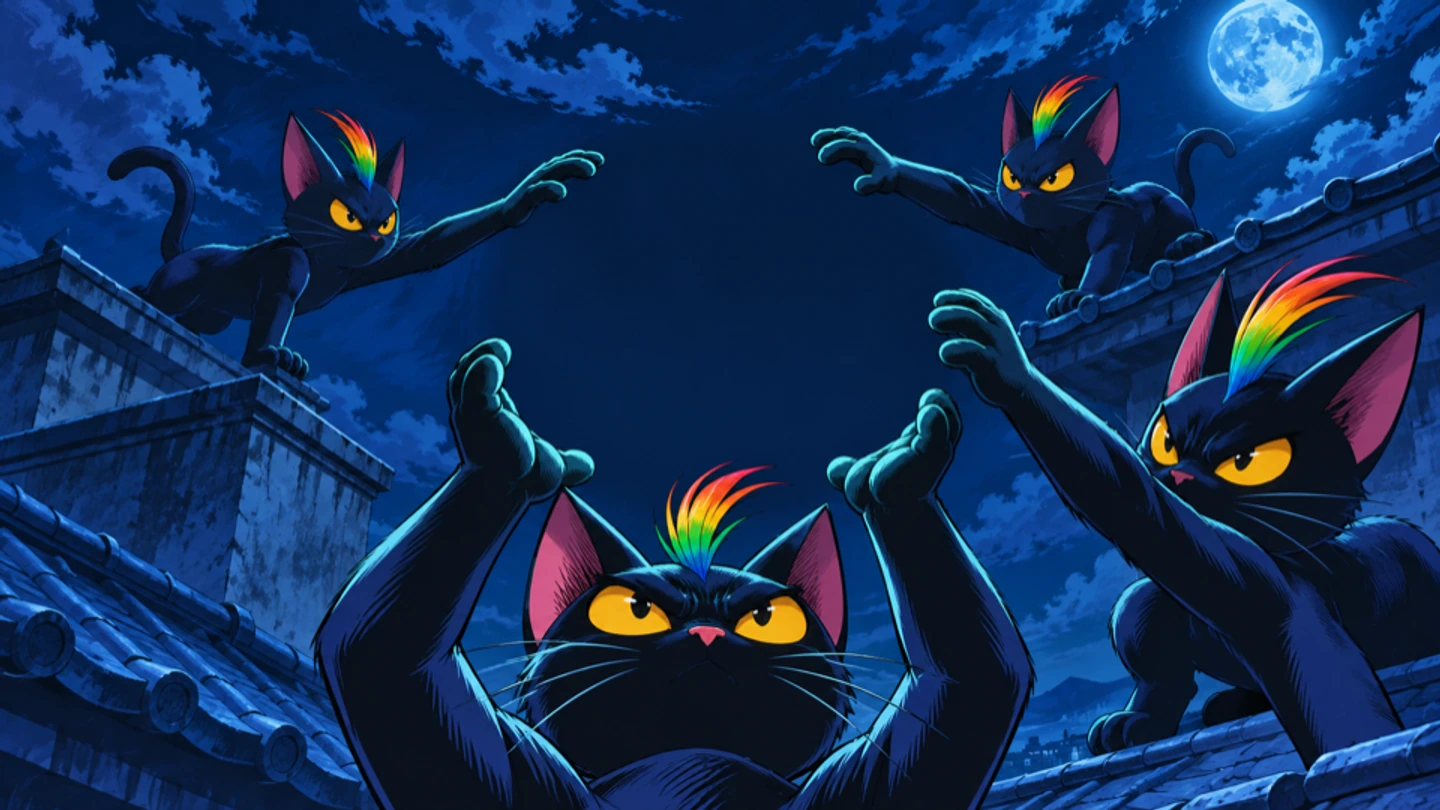
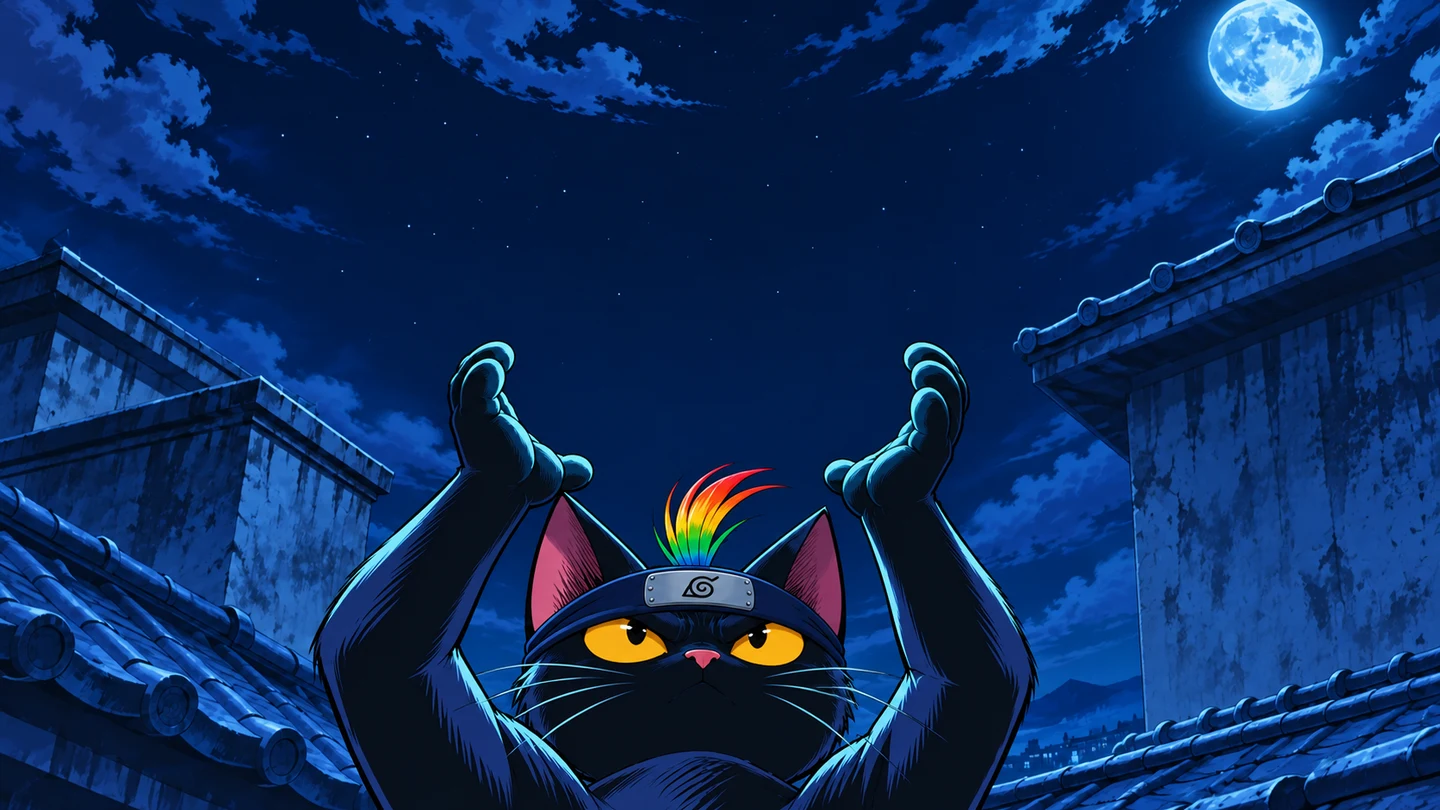
Redesign the anime Rasengan and animate the shadow clones

diff --git a/src/components/animeRasengan.ts b/src/components/animeRasengan.ts
@@ -1,0 +1,162 @@
+type Context = CanvasRenderingContext2D;
+
+const turn = Math.PI * 2;
+const unit = (value: number) => Math.max(0, Math.min(1, value));
+const smooth = (value: number) => {
+  const t = unit(value);
+  return t * t * (3 - 2 * t);
+};
+
+const clones = [
+  { at: .06, x: 26, y: 32, size: 270, smokeX: 155, smokeY: 178, handX: 268, handY: 121 },
+  { at: .22, x: 615, y: -2, size: 235, smokeX: 742, smokeY: 126, handX: 632, handY: 74 },
+  { at: .38, x: 642, y: 184, size: 367, smokeX: 828, smokeY: 300, handX: 662, handY: 202 },
+];
+const atlasColumns = clones.length + 1;
+
+function drawSmoke(ctx: Context, x: number, y: number, age: number, size: number) {
+  if (age < 0 || age >= .64) return;
+  const spread = 1 - (1 - unit(age / .64)) ** 2;
+  ctx.save();
+  ctx.globalAlpha = smooth(age / .055) * (1 - smooth((age - .12) / .52));
+  ctx.translate(x, y);
+
+  // Outlined smoke cels open from the center and break into drifting puffs.
+  for (let i = 0; i < 12; i++) {
+    const angle = i * 2.399;
+    const distance = size * (.20 + .075 * i) * (.28 + spread);
+    const radius = size * (.5 + .045 * (i % 5)) * (1 - .65 * spread);
+    const px = Math.cos(angle) * distance;
+    const py = Math.sin(angle) * distance * .58 - spread * size * .45;
+    ctx.fillStyle = i % 4 === 0 ? '#a5bada' : i % 3 === 0 ? '#c6d5eb' : '#edf4fc';
+    ctx.strokeStyle = '#7391b5';
+    ctx.lineWidth = 1.3;
+    ctx.beginPath();
+    ctx.ellipse(px, py, radius, radius * (.72 + .08 * (i % 4)), angle * .5, 0, turn);
+    ctx.fill();
+    if (i % 3 === 0) ctx.stroke();
+  }
+  ctx.restore();
+}
+
+function drawConjuring(ctx: Context, local: number, sprite?: HTMLImageElement) {
+  for (const [index, clone] of clones.entries()) {
+    const age = local - clone.at;
+    if (age >= .075 && sprite?.complete && sprite.naturalWidth) {
+      const settle = 1 - Math.exp(-(age - .075) * 21);
+      const { x, y, size } = clone;
+      ctx.filter = 'saturate(1.07) contrast(1.04)';
+      const cell = sprite.naturalWidth / atlasColumns;
+      ctx.drawImage(sprite, index * cell, 0, cell, sprite.naturalHeight, x, y + 11 * (1 - settle), size, size);
+      ctx.filter = 'none';
+    }
+    drawSmoke(ctx, clone.smokeX, clone.smokeY, age, 73 + index * 8);
+  }
+}
+
+function drawChakraSphere(ctx: Context, x: number, y: number, radius: number, local: number, atlas?: HTMLImageElement) {
+  if (!atlas?.complete || !atlas.naturalWidth) return;
+  ctx.save();
+  ctx.translate(x, y);
+  ctx.scale(radius, radius);
+  ctx.rotate(-local * 4.6 - local * local * 1.1);
+
+  const cell = atlas.naturalWidth / atlasColumns;
+  ctx.drawImage(atlas, clones.length * cell, 0, cell, atlas.naturalHeight, -1.08, -1.08, 2.16, 2.16);
+  ctx.rotate(local * 9.3);
+  ctx.shadowColor = '#2eafff';
+  ctx.shadowBlur = 4;
+
+  // Tapered ribbons roll around different axes. The flat side of each ellipse
+  // turns into its bright face, giving the shell a visible front and back.
+  for (let i = 0; i < 5; i++) {
+    const phase = local * (i % 2 ? -10.5 : 8.8) + i * 1.73;
+    const depth = Math.sin(phase * .61 + i);
+    const tilt = i * 2.399 + Math.sin(phase * .36) * .42;
+    const span = .60 + i * .13;
+    const flatten = .15 + Math.abs(depth) * .78;
+    const width = (.027 + (i % 4) * .015) * (.72 + Math.abs(depth) * .38);
+    ctx.save();
+    ctx.rotate(tilt);
+    ctx.translate(Math.sin(phase * .75) * .12, Math.cos(i * 2.1) * .11);
+    ctx.fillStyle = ['#efffff', '#c4faff', '#76ecff'][i % 3];
+    ctx.globalAlpha *= Math.max(0, .30 + depth * .46);
+    ctx.beginPath();
+    for (let point = 0; point <= 28; point++) {
+      const angle = phase + point / 28 * 4.08;
+      ctx.lineTo(Math.cos(angle) * span, Math.sin(angle) * span * flatten);
+    }
+    for (let point = 28; point >= 0; point--) {
+      const along = point / 28;
+      const angle = phase + along * 4.08;
+      const inner = span - Math.sin(along * Math.PI) * width;
+      ctx.lineTo(Math.cos(angle) * inner, Math.sin(angle) * inner * flatten);
+    }
+    ctx.closePath();
+    ctx.fill();
+    ctx.restore();
+  }
+  ctx.restore();
+}
+
+export function drawRasengan(ctx: Context, local: number, band: number, sprite?: HTMLImageElement) {
+  ctx.save();
+  drawConjuring(ctx, local, sprite);
+  const chargeTime = local - .30;
+  if (chargeTime <= 0) {
+    ctx.restore();
+    return;
+  }
+
+  const gather = smooth(chargeTime / 1.37);
+  const release = smooth((local - 1.90) / .34);
+  const radius = 8 + 87 * gather + 32 * release ** 2;
+  const x = 480;
+  const y = 229;
+
+  ctx.globalCompositeOperation = 'screen';
+  const glow = ctx.createRadialGradient(x, y, radius * .48, x, y, radius * 2.36);
+  glow.addColorStop(0, '#77fbff');
+  glow.addColorStop(.36, '#1bbfff71');
+  glow.addColorStop(1, '#0869f800');
+  ctx.globalAlpha = (.51 + .23 * band) * smooth(chargeTime / .35);
+  ctx.fillStyle = glow;
+  ctx.fillRect(x - radius * 2.4, y - radius * 2.4, radius * 4.8, radius * 4.8);
+
+  for (const [i, clone] of clones.entries()) {
+    const feed = smooth((local - clone.at - .28) / .28) * (1 - release);
+    if (!feed) continue;
+    const side = i === 0 ? -1 : 1;
+    const stream = ctx.createLinearGradient(clone.handX, clone.handY, x, y);
+    stream.addColorStop(0, '#87eeff12');
+    stream.addColorStop(.57, '#38cfff');
+    stream.addColorStop(1, '#f0ffff');
+    ctx.strokeStyle = stream;
+    ctx.globalAlpha = feed * .74;
+    ctx.lineWidth = (1.6 + gather * 2.7) * feed;
+    const drift = Math.sin(local * 25 + i * 2) * 7;
+    ctx.beginPath();
+    ctx.moveTo(clone.handX, clone.handY);
+    ctx.bezierCurveTo(clone.handX + side * -45, clone.handY + drift,
+      x + side * radius * 1.5, y + (i - 1) * radius, x, y);
+    ctx.stroke();
+  }
+
+  ctx.globalCompositeOperation = 'source-over';
+  ctx.globalAlpha = smooth(chargeTime / .19);
+  drawChakraSphere(ctx, x, y, radius, local, sprite);
+
+  ctx.lineCap = 'round';
+  for (let i = 0; i < 16; i++) {
+    const phase = (local * (2.2 + i % 3 * .24) + i * .618) % 1;
+    const angle = i * 2.399 + phase * .88;
+    const reach = radius * (1.02 + phase * (.31 + release * .65));
+    ctx.strokeStyle = i % 3 === 0 ? '#f3ffff' : '#60ddff';
+    ctx.globalAlpha = Math.sin(phase * Math.PI) * (.24 + gather * .7);
+    ctx.lineWidth = (.8 + i % 4 * .5) * (1 + release);
+    ctx.beginPath();
+    ctx.arc(x, y, reach, angle, angle + .025 + (1 - phase) * .14);
+    ctx.stroke();
+  }
+  ctx.restore();
+}

diff --git a/src/components/animeCutActions.ts b/src/components/animeCutActions.ts
@@ -1,3 +1,5 @@
+import { drawRasengan } from './animeRasengan';
+
 type Context = CanvasRenderingContext2D;
 type Camera = { x: number; y: number; scale: number };
 type Point = readonly [number, number];
@@ -6,7 +8,7 @@ export const katanaSprite = 'actions/moonlit-katana.webp';
 
 export const cutActionPlates = {
   'dawn-eye': 'nika-shadow.webp',
-  rasengan: 'rasengan-current.webp',
+  rasengan: 'rasengan-cels.webp',
   'three-crescents': 'katana-plate.webp',
   'transit-open': 'gate-closed.webp',
   'key-strike': 'claw-plate.webp',
@@ -55,107 +57,6 @@ function drawSunShadow(ctx: Context, time: number, silhouette?: HTMLImageElement
   ctx.rotate(Math.sin(time * 6) * .067);
   const width = 63 + 16 * entry;
   ctx.drawImage(silhouette, -width / 2, -width * .43, width, width * .85);
-  ctx.restore();
-}
-
-function drawRasengan(ctx: Context, local: number, band: number, texture?: HTMLImageElement) {
-  const gather = smooth(local / 1.55);
-  const release = smooth((local - 1.87) / .38);
-  const radius = 17 + 86 * gather + 95 * release ** 2;
-  const x = 478 + release * 102;
-  const y = 208 + release * 51;
-  ctx.save();
-  // Three separate paths start at the fingertips of the three shadow clones.
-  const feeds = [[392, 108, -1], [554, 94, 1], [634, 199, 1]] as const;
-  for (const [handX, handY, side] of feeds) {
-    const progress = smooth(local * 2.2) * (1 - release);
-    if (progress <= 0) continue;
-    const bend = Math.sin(local * 14 + handX) * 10;
-    const farX = x + side * radius * .61;
-    const farY = y - radius * .7;
-    const stream = ctx.createLinearGradient(handX, handY, farX, farY);
-    stream.addColorStop(0, '#8df7ff6b');
-    stream.addColorStop(.58, '#32bffc');
-    stream.addColorStop(1, '#e9ffff');
-    ctx.globalCompositeOperation = 'screen';
-    ctx.strokeStyle = stream;
-    ctx.lineWidth = (1.5 + gather * 5) * progress;
-    ctx.globalAlpha = (.54 + band * .35) * progress;
-    ctx.beginPath();
-    ctx.moveTo(handX, handY);
-    ctx.bezierCurveTo(mix(handX, x, .43), handY - 26 + bend, farX + side * 37, farY - 26, farX, farY);
-    ctx.stroke();
-  }
-  const shine = ctx.createRadialGradient(x, y, radius * .13, x, y, radius * 2.2);
-  shine.addColorStop(0, '#9afaff8f');
-  shine.addColorStop(.4, '#4bcdf9a8');
-  shine.addColorStop(.7, '#2387ff38');
-  shine.addColorStop(1, '#1465ff00');
-  ctx.globalCompositeOperation = 'screen';
-  ctx.globalAlpha = .55 + band * .33;
-  ctx.fillStyle = shine;
-  ctx.fillRect(x - radius * 2.3, y - radius * 2.3, radius * 4.6, radius * 4.6);
-  ctx.globalCompositeOperation = 'source-over';
-
-  ctx.save();
-  ctx.beginPath();
-  ctx.arc(x, y, radius, 0, turn);
-  ctx.clip();
-  const body = ctx.createRadialGradient(x - radius * .18, y - radius * .23, radius * .06, x, y, radius);
-  body.addColorStop(0, '#e4ffff');
-  body.addColorStop(.23, '#b5f8ff');
-  body.addColorStop(.61, '#38c6fa');
-  body.addColorStop(.86, '#167ac9');
-  body.addColorStop(1, '#79f8ff');
-  ctx.fillStyle = body;
-  ctx.globalAlpha = .99;
-  ctx.fillRect(x - radius, y - radius, radius * 2, radius * 2);
-
-  if (ready(texture)) {
-    ctx.save();
-    ctx.translate(x, y);
-    ctx.rotate(-local * 6.1);
-    ctx.globalAlpha = .82;
-    ctx.drawImage(texture, -radius * 1.08, -radius * 1.08, radius * 2.16, radius * 2.16);
-    ctx.globalCompositeOperation = 'screen';
-    ctx.rotate(local * 11.7);
-    ctx.globalAlpha = .48;
-    ctx.drawImage(texture, -radius * .94, -radius * .94, radius * 1.88, radius * 1.88);
-    ctx.restore();
-  }
-
-  // Each latitude is a rotating stream on the surface of the sphere.
-  for (let i = 0; i < 12; i++) {
-    const seed = ((i * 73) % 29) / 29;
-    const spin = local * (4.9 + gather * 7) + i * 2.414;
-    const r = radius * (.23 + seed * .77);
-    const squash = .09 + ((i * 3) % 11) / 15;
-    ctx.strokeStyle = ['#e6ffff', '#acfcff', '#41d4ff', '#157eed', '#efffff'][i % 5];
-    ctx.globalAlpha = .32 + seed * .34;
-    ctx.lineWidth = (1.2 + seed * 3.6) * (1 + release * .91);
-    ctx.beginPath();
-    ctx.ellipse(x + Math.cos(spin * 1.3) * r * .12, y + Math.sin(spin * .8) * r * .16,
-      r, r * squash, spin * .36 + i * .80, spin, spin + 1.78 + seed * 2.6);
-    ctx.stroke();
-  }
-  ctx.restore();
-
-  for (let i = 0; i < 10; i++) {
-    const angle = i * 2.399;
-    const phase = (local * (1.1 + i % 4 * .21) + i * .398) % 1;
-    const reach = radius + (1 - phase) ** 2 * (42 + i * 13);
-    ctx.translate(x, y);
-    ctx.rotate(angle + phase * .86);
-    ctx.strokeStyle = i % 3 === 0 ? '#e4ffff' : '#62deff';
-    ctx.globalAlpha = Math.sin(phase * Math.PI) * (.33 + gather * .48);
-    ctx.lineWidth = 1 + gather * 3;
-    ctx.beginPath();
-    ctx.moveTo(reach + 50, -37);
-    ctx.quadraticCurveTo(reach + 14, -2, reach, 5);
-    ctx.stroke();
-    ctx.rotate(-(angle + phase * .86));
-    ctx.translate(-x, -y);
-  }
   ctx.restore();
 }
 

diff --git a/src/components/AnimeExperience.tsx b/src/components/AnimeExperience.tsx
@@ -187,7 +187,7 @@ export function AnimeExperience() {
         const locked = effect === 'manga' || effect === 'kira' || image === 'red-power';
         const quiet = effect === 'still';
         const flying = effect === 'nimbus';
-        const distance = locked ? 0 : quiet ? 0.4 : flying ? 3.8 : effect === 'run' ? 8 : 3;
+        const distance = locked || image === 'rasengan' ? 0 : quiet ? 0.4 : flying ? 3.8 : effect === 'run' ? 8 : 3;
         const lift = locked ? 0 : quiet ? 0.12 : flying ? -0.7 : effect === 'slash' ? -2.6 : -1.35;
         const impact = effect === 'slash' ? Math.max(0, 0.1 - local * 0.22) : 0;
         const spring = effect === 'gear' ? Math.sin(local * 16) * Math.exp(-local * 2.6) : 0;
@@ -214,7 +214,7 @@ export function AnimeExperience() {
           : image === 'team-prank' ? 1.035 + local / 5.02 * .048 + prankKick * .031
           : image === 'team-prank-reaction' ? 1.06 + progress * .025
           : image === 'spirit-bomb' ? 1.075 - progress * .035
-          : image === 'rasengan' ? 1.07 + progress * .085 + Math.min(1, rasenganDrive) * .21
+          : image === 'rasengan' ? 1.035 + progress * .049 + Math.min(1, rasenganDrive) * .11
           : image === 'three-crescents' ? 1.045 + progress * .04 + swordKick * .037
           : image === 'key-strike' ? 1.075 + progress * .06 + tapping * .016
           : image === 'paw' ? 1.09 + progress * .09 + keyKick * .054
